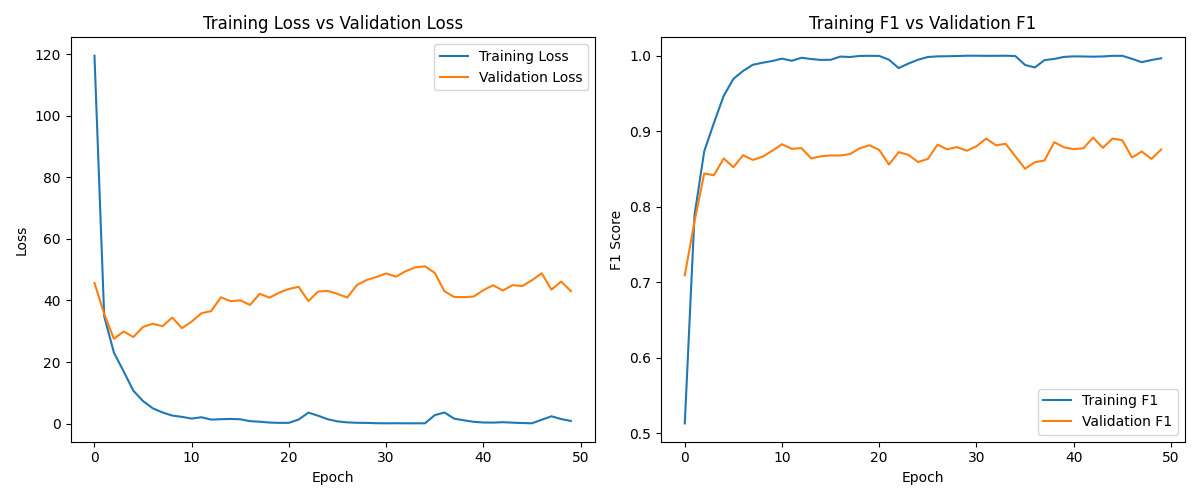
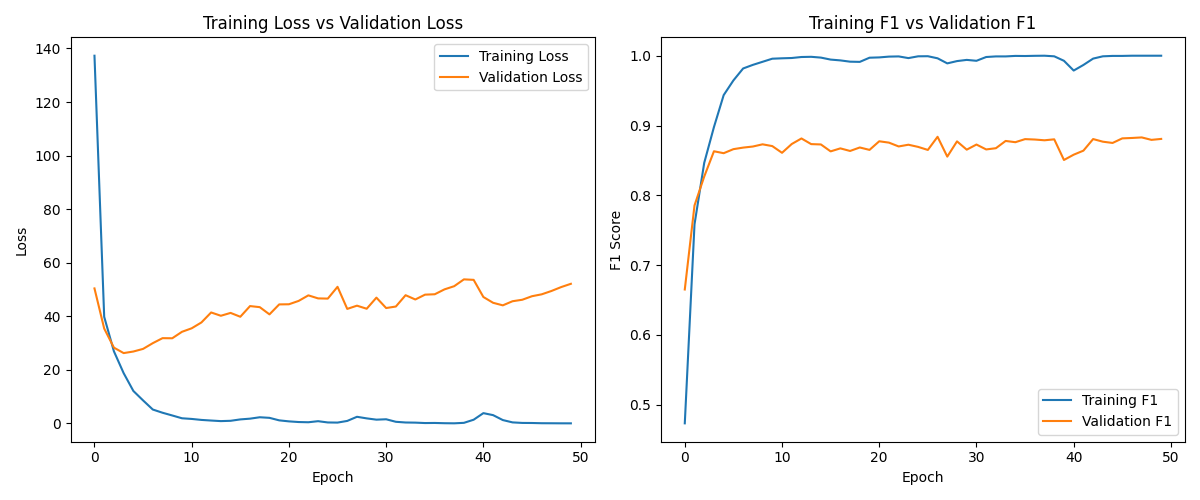
fixed verse retrieval

diff --git a/app.py b/app.py
@@ -54,16 +54,17 @@ class BibleTestSession:
         verse = verse_results[0]
 
         # Console log for developer to record into Cohen's Kappa sheet
-        print(f"\n--- Bible Test ---")
+        print(f"\n--- Bible Test (FAISS + LLM Reranker) ---")
         print(f"Utterance: {user_input}")
         print(f"Intents:   {intents_str}")
         print(f"Verse:     {verse['reference']} — {verse['text']}")
-        print(f"------------------\n")
+        print(f"------------------------------------------\n")
 
         return (
             f"**Intent Terdeteksi:** {intents_str}\n\n"
             f"**Ayat:** {verse['reference']} (TB)\n\n"
-            f"\"{ verse['text']}\""
+            f"\"{ verse['text']}\"\n\n"
+            f"*(dipilih oleh LLM reranker dari 5 kandidat FAISS)*"
         )
 
 
@@ -108,7 +109,10 @@ def chat():
         return jsonify({"response": (
             "🔬 **Mode Bible Test Aktif**\n\n"
             "Masukkan utterance dari daftar pengujian Anda.\n"
-            "Sistem akan menampilkan ayat yang diambil oleh FAISS (tanpa LLM).\n\n"
+            "Pipeline pengambilan ayat:\n"
+            "1. Klasifikasi intent (LABAN/IndoBERT)\n"
+            "2. FAISS semantic search → 5 kandidat ayat\n"
+            "3. LLM reranker (Gemini) → memilih ayat terbaik\n\n"
             "Ketik `exit test` untuk kembali ke sesi normal."
         )})
 

diff --git a/core/vector_db.py b/core/vector_db.py
@@ -257,11 +257,12 @@ class VectorDBManager:
             f"{candidate_list_str}\n\n"
             "Instruksi:\n"
             "1. Pilih SATU ayat yang paling sesuai dengan konteks percakapan di atas.\n"
-            "2. ⚠ PERINGATAN: Kamu sedang berurusan dengan Firman Tuhan. "
+            "2. Utamakan pilih ayat yang bersifat menguatkan dan memberi penghiburan.\n"
+            "3. ⚠ PERINGATAN: Kamu sedang berurusan dengan Firman Tuhan. "
             "JANGAN mengubah, menambahkan, atau menghilangkan satu kata pun dari teks ayat.\n"
-            "3. Format output: REFERENSI|TEKS AYAT\n"
+            "4. Format output: REFERENSI|TEKS AYAT\n"
             "   Contoh: Mazmur 34:18|TUHAN itu dekat kepada orang-orang yang patah hati...\n"
-            "4. Output HANYA satu baris. Tidak ada penjelasan, komentar, atau teks tambahan.\n"
+            "5. Output HANYA satu baris. Tidak ada penjelasan, komentar, atau teks tambahan.\n"
         )
 
         try:

diff --git a/CLAUDE.md b/CLAUDE.md
@@ -25,7 +25,7 @@ The thesis evaluation requires the following empirical results and artifacts:
 2. **Embedding Model Comparison** — Benchmarking the following models as classifiers under the LABAN architecture:
    - `indolem/indobert-base-uncased` (IndoBERT)
    - `indobenchmark/indobert-lite-base-p1` (IndoBERT-Lite)
-   - `indolem/indobertweet-base-uncased` (IndoBERTweet) ← **currently active**
+   - `indolem/indobertweet-base-uncased` (IndoBERTweet)
    - `intfloat/multilingual-e5-small` (mE5)
    - `sentence-transformers/paraphrase-multilingual-MiniLM-L12-v2`
    - `sentence-transformers/all-MiniLM-L6-v2`
@@ -47,7 +47,9 @@ The thesis evaluation requires the following empirical results and artifacts:
 - [x] Full embedding comparison table (all 6 models benchmarked) → `evaluation/results/backbone_comparison_summary.csv`
 - [x] Seen/Unseen zero-shot evaluation (3 splits) → `evaluation/results/seen_unseen_summary.csv`
 - [x] Cosine similarity heatmap (label-vs-label, centroid-vs-label, per-sample utterance-vs-label)
-- [x] `BibleTestSession` added to `app.py` — sandbox mode for Cohen's Kappa verse retrieval testing
+- [x] `BibleTestSession` added to `app.py` — sandbox mode for Cohen's Kappa verse retrieval testing (uses LLM reranker internally)
+- [x] LLM reranker integrated into Bible verse retrieval (`retrieve_verse_with_llm()`) — FAISS top-5 → Gemini selects best; `BIBLICAL_SYNONYMS` dict added for query expansion
+- [x] `MODEL_NAME` switched to `indobenchmark/indobert-base-p1` (IndoBERT) in `config.py` after backbone comparison confirmed it as top performer
 - [/] RAGAS evaluation — script ready (`eval_ragas.py`), template at `evaluation/data/ragas_testset.csv`, pending manual `reference` column fill + `--evaluate` run
 - [ ] Streaming LLM response (SSE) — pending timing measurement decision
 - [ ] Timing instrumentation cleanup before final submission
@@ -90,6 +92,7 @@ The thesis evaluation requires the following empirical results and artifacts:
 ```
 The_Chatbot/
 ├── app.py                      Flask entry — /chat (POST), /reset (POST), / (GET)
+│                               BibleTestSession uses LLM reranker (retrieve_verse_with_llm) internally
 │                               Also contains BibleTestSession (Cohen's Kappa sandbox — "bible test" mode)
 ├── config.py                   Global config singleton `opt`; MODEL_NAME, hidden_size, thresold, etc.
 ├── CLAUDE.md                   AI coding context (this file)
@@ -144,6 +147,15 @@ The_Chatbot/
 │   │   └── ragas_testset.csv    50-sample test template (user fills 'reference' column)
 │   └── results/                 Auto-created output CSVs and PNGs
 │       ├── backbone_comparison_summary.csv      ✅ DONE — 6-model benchmark results
+│
+├── documentation/
+│   ├── LABAN_DOCUMENTATION.md/.pdf              Thesis write-up: LABAN architecture
+│   ├── RAGAS_DOCUMENTATION.md/.pdf              Thesis write-up: RAGAS evaluation
+│   ├── COSINE_HEATMAP_DOCUMENTATION.md/.pdf     Thesis write-up: cosine heatmap
+│   ├── FAISS_VERSE_RETRIEVAL_DOCUMENTATION.md   LLM reranker design rationale
+│   ├── DOC_DATA_COLLECTION.md                   Data collection methodology
+│   ├── DOC_ENVIRONMENT.md                       Environment setup
+│   └── DOC_PREPROCESSING.md                    Data preprocessing
 │       ├── backbone_comparison_per_intent.csv   ✅ DONE — per-intent breakdown
 │       ├── *_training_curve.png                 ✅ DONE — 6 training curve plots
 │       ├── seen_unseen_summary.csv              ✅ DONE — 3-split ZSL results
@@ -254,15 +266,16 @@ Defined via `MultiLabelBinarizer` fitted on training CSV in `data/data_preparati
 - After this stage, `session_ended = True`.
 
 ### RAG Pipeline
-- Bible verse retrieval: semantic FAISS search → keyword re-rank → random tiebreaker (ensures verse diversity).
-- Verse injection is **only** active in `solusi` and `relaksasi` stages.
-- `VectorDBManager` holds both `faiss_bible_index` and `faiss_qna_index` — both are persisted to disk; first-time build of Bible index can take 10–30 min.
+- **Bible verse retrieval** (updated): `BIBLICAL_SYNONYMS` query expansion → FAISS `similarity_search_with_score` (top-k=5) → Gemini LLM reranker (`retrieve_verse_with_llm()`) picks the best verse. Falls back to top FAISS result if LLM output is unparseable.
+- `BIBLICAL_SYNONYMS` in `vector_db.py`: maps each of the 10 LABAN intents to formal TB biblical vocabulary so informal user slang gets expanded to words that actually appear in the Bible.
+- Verse injection is active in `solusi`, `relaksasi`, **and `bantuan_profesional`** stages (see `BIBLE_VERSE_STAGES`).
+- `VectorDBManager` holds both `faiss_bible_index` and `faiss_qna_index` — both persisted to disk; first-time build of Bible index can take 10–30 min.
 
 ### Config Quick-Reference
 
 | Key | Current Value | Notes |
 |-----|---------------|-------|
-| `MODEL_NAME` | `indolem/indobertweet-base-uncased` | Active backbone |
+| `MODEL_NAME` | `indobenchmark/indobert-base-p1` | Active backbone (switched after comparison — IndoBERT was best) |
 | `hidden_size` | `768` | Must match MODEL_NAME output dim |
 | `thresold` | `0.5` | Intentional typo — do not rename |
 | `max_len` | `50` | Max token length for classifier |
@@ -271,6 +284,7 @@ Defined via `MultiLabelBinarizer` fitted on training CSV in `data/data_preparati
 | `LEARNING_RATE` | `2e-5` | AdamW LR |
 
 **Commented-out MODEL_NAME alternatives in `config.py`:**
+- `indolem/indobertweet-base-uncased` (hidden_size=768) ← previously active
 - `indobenchmark/indobert-lite-base-p1` (hidden_size=768)
 - `sentence-transformers/all-MiniLM-L6-v2` (hidden_size=384)
 - `sentence-transformers/paraphrase-multilingual-MiniLM-L12-v2` (hidden_size=384)
@@ -301,9 +315,17 @@ Defined via `MultiLabelBinarizer` fitted on training CSV in `data/data_preparati
 
 **Session: 2026-06-02 — Evaluation Completed**
 
-- **Backbone comparison completed** — All 6 transformer variants benchmarked at 50 epochs (identical hyperparams). Results in `evaluation/results/backbone_comparison_summary.csv`. IndoBERT is top performer (F1=0.9318) but IndoBERTweet (F1=0.8991) remains the active model.
+- **Backbone comparison completed** — All 6 transformer variants benchmarked at 50 epochs (identical hyperparams). Results in `evaluation/results/backbone_comparison_summary.csv`. IndoBERT is top performer (F1=0.9318); IndoBERTweet (F1=0.8991) was previously active.
 - **Seen/Unseen ZSL evaluation completed** — 3 splits run. F1-Macro Seen=0.8997, Unseen=0.0 across all splits (model cannot predict truly unseen labels — expected behavior for LABAN without label expansion).
-- **`BibleTestSession` added to `app.py`** — type `bible test` in chat UI to activate sandbox mode that bypasses LLM and shows raw FAISS verse retrieval output + intent scores. Used for Cohen's Kappa inter-rater reliability evaluation of verse relevance.
+- **`BibleTestSession` added to `app.py`** — type `bible test` in chat UI to activate sandbox mode for Cohen's Kappa inter-rater reliability evaluation of verse relevance.
+
+**Session: 2026-06-03 — LLM Reranker for Bible Retrieval**
+
+- **`retrieve_verse_with_llm()` added to `VectorDBManager`** — replaces the old keyword re-rank + random tiebreaker. New pipeline: `BIBLICAL_SYNONYMS` query expansion → FAISS top-5 → Gemini LLM picks best verse from candidates. Falls back to top FAISS result if LLM output is unparseable.
+- **`BIBLICAL_SYNONYMS` dict** added to `vector_db.py` — maps each of the 10 LABAN intents to formal TB biblical vocabulary (e.g., "kesel" → "murka", "capek" → "lelah") for richer FAISS queries.
+- **`MODEL_NAME` switched to `indobenchmark/indobert-base-p1`** in `config.py` — IndoBERT replaces IndoBERTweet as the active backbone after the comparison confirmed it as the best performer.
+- **`documentation/` folder created** — 10 thesis write-up files (LABAN, RAGAS, cosine heatmap, FAISS retrieval, data collection, environment, preprocessing).
+- **`bantuan_profesional` added to `BIBLE_VERSE_STAGES`** in `rag_engine.py` — verse retrieval now also runs in this branch stage.
 
 ---
 
@@ -380,7 +402,7 @@ Defined via `MultiLabelBinarizer` fitted on training CSV in `data/data_preparati
 - [ ] Delete or archive `core/knowledge_base.py` and `core/test_knowledge_base.py`
 - [ ] Audit and trim `requirement.txt` (remove unused: `anthropic`, `openai`, `aiml`, `beautifulsoup4`)
 - [ ] Add "Mulai Sesi Baru" reset button to UI (`static/script.js` + `index.html`)
-- [ ] Improve server error display in `script.js` line 72 — currently shows raw `data.error` string; replace with user-friendly Indonesian message
+- [x] ~~Improve server error display~~ — `app.py` already returns `"Terjadi kesalahan internal. Silakan coba lagi."` for 500 errors ✅
 - [ ] Decide and implement `session_ended` behavior in `session_manager.py` (restart vs. closed-session notice)
 - [x] ~~Add `.env` to `.gitignore`~~ — `.env` is already in `.gitignore` (resolved)
 

diff --git a/HANDOFF.md b/HANDOFF.md
@@ -12,7 +12,7 @@ The system conducts structured multi-turn counseling conversations using the **L
 
 **Core Tech Stack:**
 - LLM: Google Gemini 2.5-Flash via LangChain (`langchain-google-genai`)
-- Intent Classifier: Fine-tuned `indolem/indobertweet-base-uncased` with LABAN multi-label architecture
+- Intent Classifier: Fine-tuned `indobenchmark/indobert-base-p1` (IndoBERT) with LABAN multi-label architecture
 - Vector Store: FAISS (via `langchain_community`) for Bible verses + QnA pairs
 - Embeddings: `sentence-transformers/paraphrase-multilingual-MiniLM-L12-v2`
 - Web Interface: Flask + vanilla JS/CSS (single-page chat UI)
@@ -39,9 +39,9 @@ RAGEngine.generate_response()  [core/rag_engine.py]
     │      SKIPPED in: pembukaan, bantuan_profesional
     ├─ CBT guidance injection (solusi/relaksasi when physical symptoms detected)
     ├─ QnA FAISS search — core/vector_db.py
-    ├─ Bible Verse Retrieval — core/vector_db.py (Sastrawi stopwords for keyword extraction)
+    ├─ Bible Verse Retrieval — core/vector_db.py
     │      ONLY in: relaksasi, solusi, bantuan_profesional
-    │      Algorithm: semantic FAISS search → keyword re-rank → random tiebreaker
+    │      Algorithm: BIBLICAL_SYNONYMS query expansion → FAISS top-5 → Gemini LLM reranker picks best verse
     ├─ Prompt assembly (LangChain PromptTemplate)
     ↓
 Gemini 2.5-Flash API call
@@ -109,6 +109,15 @@ The_Chatbot/
 │   │   └── seeds.json              Seed sentences per intent
 │   └── faiss_bible_index/    Persisted FAISS index for Bible (auto-built on first run)
 │   (faiss_qna_index/ will appear after first run post-optimization)
+│
+├── documentation/
+│   ├── LABAN_DOCUMENTATION.md/.pdf       Full LABAN architecture write-up (thesis chapter)
+│   ├── RAGAS_DOCUMENTATION.md/.pdf       RAGAS evaluation methodology write-up
+│   ├── COSINE_HEATMAP_DOCUMENTATION.md/.pdf  Cosine heatmap analysis write-up
+│   ├── FAISS_VERSE_RETRIEVAL_DOCUMENTATION.md  LLM reranker design write-up
+│   ├── DOC_DATA_COLLECTION.md            Data collection methodology
+│   ├── DOC_ENVIRONMENT.md                Environment setup documentation
+│   └── DOC_PREPROCESSING.md              Data preprocessing documentation
 │
 ├── templates/
 │   └── index.html            Single-page chat UI
@@ -233,9 +242,9 @@ Current intents (from training CSV):
 - [x] Aggregate statistics in `seen_unseen_aggregate.csv`
 
 ### 5.10 BibleTestSession Added to app.py (Session 2026-06-02)
-- [x] `BibleTestSession` class added to `app.py` as a sandbox bypass mode
+- [x] **BibleTestSession** class added to `app.py` as a sandbox bypass mode
 - [x] Activate by typing `bible test` in chat UI; deactivate with `exit test`
-- [x] Bypasses LLM entirely — runs LABAN classification + FAISS retrieval only
+- [x] Runs LABAN classification + FAISS retrieval **with LLM reranker** (Gemini picks best verse from top-5 FAISS candidates)
 - [x] Prints intent scores + retrieved verse to console for manual recording into Cohen's Kappa evaluation sheet
 - [x] Used for inter-rater reliability evaluation of verse relevance quality
 
@@ -318,8 +327,8 @@ The session has no explicit "session ended" flag after `penutupan`. Currently:
 #### 7.7 Add Session Reset Button to UI
 Currently `static/script.js` calls `/reset` on page load only. A visible "Mulai Sesi Baru" button in the UI would allow users to restart without refreshing the page, which is important for user testing (thesis evaluation).
 
-#### 7.8 Improve Error Display in UI
-If the Flask backend returns a 500 error, `script.js` currently shows the raw error string in a chat bubble. Replace with a user-friendly Indonesian message like "Maaf, terjadi kendala. Silakan coba lagi."
+#### 7.8 ~~Improve Error Display in UI~~ — ✅ DONE
+`app.py` already returns `"Terjadi kesalahan internal. Silakan coba lagi."` for 500 errors. No further action needed.
 
 #### 7.9 Write Test Cases for Stage Transitions
 `core/test_rag.py` tests retrieval but not the full conversation flow. For thesis evaluation, add a simple script that runs a simulated conversation end-to-end and asserts:
@@ -389,7 +398,7 @@ All values live in `config.py` and are accessed via the `opt` singleton.
 
 | Key | Current Value | What it controls |
 |-----|---------------|-----------------|
-| `MODEL_NAME` | `indolem/indobertweet-base-uncased` | Transformer backbone for classifier |
+| `MODEL_NAME` | `indobenchmark/indobert-base-p1` | Transformer backbone for classifier (switched to IndoBERT after backbone comparison) |
 | `hidden_size` | `768` | Must match MODEL_NAME output dim |
 | `thresold` | `0.5` | Intent detection cutoff (note typo) |
 | `max_len` | `50` | Max token length for classifier input |
@@ -411,3 +420,4 @@ All values live in `config.py` and are accessed via the `opt` singleton.
 | 2026-05-25 | Cosine similarity heatmap evaluation (eval_cosine_heatmap.py) — 3 heatmaps + metrics CSV; label separation gap = 1.0540, centroid alignment gap = 0.6048 |
 | 2026-05-26 | RAGAS evaluation framework (eval_ragas.py) — two-phase pipeline with Groq judge; template CSV generated (50 samples); pending user `reference` fill |
 | 2026-06-02 | Backbone comparison completed (all 6 models, IndoBERT best @ F1=0.9318); Seen/Unseen ZSL evaluation completed (F1-Seen=0.8997, Unseen=0.0); BibleTestSession added to app.py for Cohen's Kappa verse evaluation |
+| 2026-06-03 | LLM reranker added to Bible verse retrieval (`retrieve_verse_with_llm()` in vector_db.py) — FAISS top-5 candidates → Gemini picks best; BIBLICAL_SYNONYMS query expansion dict added (10 intents → formal biblical vocab); MODEL_NAME switched to IndoBERT (`indobert-base-p1`) in config.py post-comparison; `documentation/` folder created with 10 thesis write-up files |
